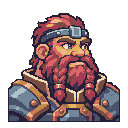
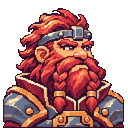
v64: Upscaled Redraws, 19 legacy hero portraits
Claude-Session: https://claude.ai/code/session_019G5bQC3KGAYpQSZdre1Ejx

diff --git a/js/02-art.js b/js/02-art.js
@@ -344,7 +344,7 @@ function iconURL(kind,key,size=64){
   if(kind==='gem')return ART_BASE+`gems/${key}.png`;
   if(kind==='hero'&&HBY[key]&&HBY[key].custom&&HBY[key].port)return HBY[key].port;
   if(kind==='hero'&&RECRUIT_PORT.includes(key))return recruitPortrait(key);
-  if(kind==='hero'&&ART_PORTRAITS.has(key))return ART_BASE+`portraits/heroes/${key}_128.png?v=63`;
+  if(kind==='hero'&&ART_PORTRAITS.has(key))return ART_BASE+`portraits/heroes/${key}_128.png?v=64`;
   if(kind==='unit'&&ENEMY_ART[key])return ART_BASE+`portraits/enemies/${ENEMY_ART[key]}_64.png`;
   if(kind==='unit'&&stripArt(key))return ART_BASE+`portraits/units/${stripArt(key)}_128.png`;
   if(kind==='unit'&&unitArt(key))return ART_BASE+`portraits/units/${unitArt(key)}_64.png`;

diff --git a/CLAUDE.md b/CLAUDE.md
@@ -223,6 +223,10 @@ Everything lives in one object, `S`, so it can be saved as JSON:
 - New ability hooks (player side only): `forgePlus` (extra Great Forge attack), `armyDef` (whole army defense), `rangedPct` (shooter damage), `halfCost` (one spell at half mana), `manaCut` (all spells cheaper), `squallPct`, `weakenPct`.
 - Raised: Ivan (Forge half ore, +1 more attack), Oliver (30% cheaper rough ground, +5% movement), Shadow (harvest 20%), Sheila (Squall +30%), Grimes and Griffiths (+1 speed to their troop). Made distinct: Veyra, Gliss, Silka, Murmur, Boone, Mossback, Aster, Nessa Holt. Trimmed: Schmickle and Quillby to +200 gold a day. Battaglia is a Might hero.
 
+### v64 upscaled redraws
+
+- Upscaled Redraws pack: 19 new portraits (1024-1254 px sources shrunk to 128, alpha made binary): Sookie, Bear, Monkey, William IV (`necro4`), Eden, Michael, Hush (`murmur`), Dupengeiser, Grimes, Ivan, Slack, Kiln, Schmickle, Boone, Rocky, Letchworth, Eelvis (`elvis`), Skimmer and Inkwake (now a blue ink squid). Hush, Inkwake, Kiln and Skimmer are also updated in `recruits.png`. Portrait URLs carry `?v=64`. Still to redraw: Dusty and a three-eyed King Pharoph the 3rd.
+
 ### v63 movement sprites, batch 9, headshot upgrades
 
 - Movement Sprites pack: each hero's own battle figure replaces the banner figure in `drawBattleHero` (`heroFigure(h, pose)`: on foot from `battle/heroes/foot.png`, two heroes a row, six 96x64 cells each (64-wide frames centred), poses idle, move A, move B, attack, hit, defeat; mounted from `battle/heroes/mounted.png`, one hero a row, eight 96x64 poses, used when `h.mount==='horse'` or the hero has no on-foot strip; pivot 48,60, faces east, flipped for the enemy). The figure plays its attack pose for half a second when its side casts (`bt.heroAct`, set in `castSpell` and `enemyCast`). Mounted map walkers: `heroes/walkers_mounted.png` (192x384 sheets, 7 a row, `WALK_MOUNT`, `walkerMounted`), used by `heroSheet(id, col, mounted)` when the hero rides a horse. Lists: `HERO_FOOT`, `HERO_MOUNT`, `WALK_MOUNT` in `02-art.js` (pack ids `griffiths`, `william_iv`, `image_3` map to `mer2`, `necro4`, `trey`). 142 heroes have a figure; the 24 without one keep the banner figure (see `ART_REQUEST_NEXT.md`).

diff --git a/LEGAL.md b/LEGAL.md
@@ -64,6 +64,7 @@ No other libraries, images or audio are included. Art made later with ChatGPT or
 | Student Heroes batches 6 and 7 (19 new portraits and a redrawn Estella) in `assets/portraits/heroes/` and `recruits.png` | Supplied by the author (generated pixel art, ChatGPT, from students' Create a hero worksheets) | 2026-11-14 | Characters designed by students, used with the author's permission |
 | Batch 08 Hero Fixes (9 new student heroes; redrawn Gilt, Bess & Bea, Rumble, Livingston, Love) in `assets/portraits/heroes/` and `recruits.png` | Supplied by the author (generated pixel art, ChatGPT, from students' worksheets and the author's notes) | 2026-11-15 | Student characters used with the author's permission |
 | Movement Sprites (hero battle figures, mounted battle figures and mounted map walkers) in `assets/battle/heroes/foot.png`, `mounted.png` and `assets/heroes/walkers_mounted.png`; Student Heroes batch 9 portraits; Headshot Workshop 02 portraits (Boopis, Engelman, Rimmer, Tempest, Rago, Binx) | Supplied by the author (generated pixel art, ChatGPT) | 2026-11-15 | Student characters used with the author's permission |
+| Upscaled Redraws (19 legacy hero portraits) in `assets/portraits/heroes/` and `recruits.png` | Supplied by the author (generated pixel art, ChatGPT) | 2026-11-16 | |
 | Half-size move cursor (`assets/ui/cursors/move_small.png`) | Downscaled locally from Pack 09's move cursor | 2026-11-08 | Same as above |
 
 The generated source images (high-res magenta PNGs) are kept outside this repo.

diff --git a/ART_REQUEST_NEXT.md b/ART_REQUEST_NEXT.md
@@ -16,7 +16,7 @@ About 140 heroes walk the map as their banner's generic figure. One 192×384 she
 
 ## 0. Current list (v63, 2026-11-15)
 
-**Portraits still in the old style** (based on the Hero Book): Sookie, Bear, Monkey, William IV, Eden, Michael, Dusty, Hush, Dupengeiser, Grimes, Ivan, Slack, Kiln, Schmickle, Boone, Rocky, Letchworth, Eelvis, Skimmer, Inkwake (as a blue ink squid captain), plus King Pharoph the 3rd with three eyes. Already updated in v63 from Headshot Workshop 02: Boopis, Engelman, Rimmer, Tempest, Rago, Binx.
+**Portraits still in the old style**: Dusty, plus King Pharoph the 3rd with three eyes. (Upscaled Redraws in v64 replaced Sookie, Bear, Monkey, William IV, Eden, Michael, Hush, Dupengeiser, Grimes, Ivan, Slack, Kiln, Schmickle, Boone, Rocky, Letchworth, Eelvis, Skimmer and Inkwake.) Already updated in v63 from Headshot Workshop 02: Boopis, Engelman, Rimmer, Tempest, Rago, Binx.
 
 **Battle figures still missing** (Movement Sprites format: on foot, 6 poses, 64x64 or 96x64): Mossback, Fern, Spindle, Coral, Penny, India, Rusk Hookhorn, Thornfrill, Mara, Sid & Tess, Wren, Mags & Mae, Odo & Otto, Aster & Briar, Ned & Nat, Spike, Rafe & Reed, Fut, Luckenzo, Larishna, Nanya, Posy Spinner, Katherine, King Pharoph the 3rd.
 
